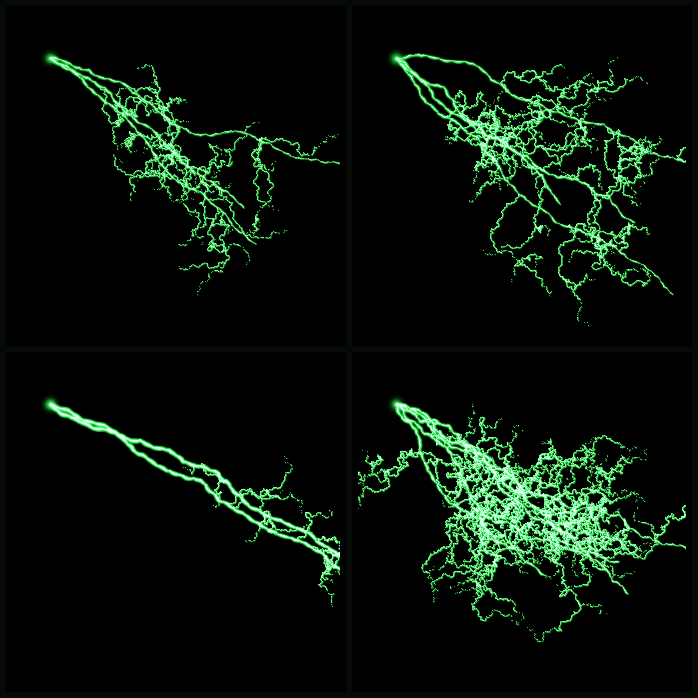
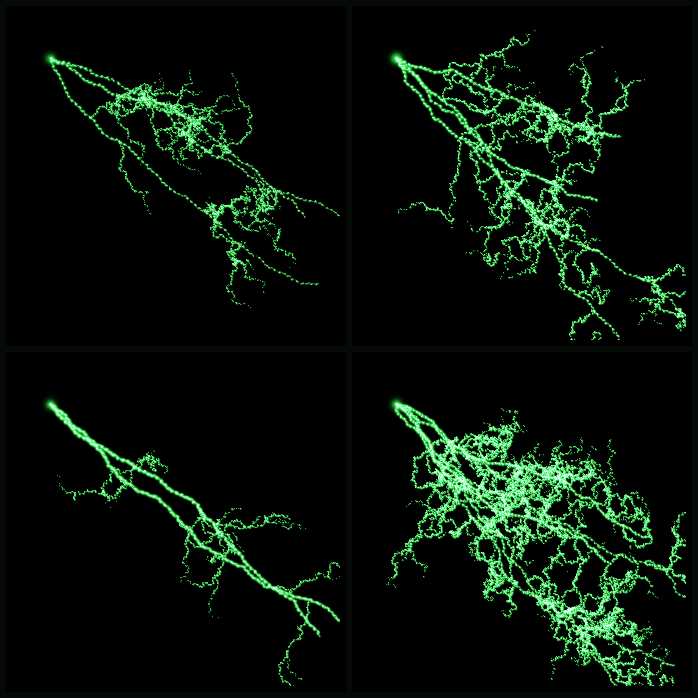
Green Growing: make it animate on (crackle/breakup/shimmer + fast tendril regen) instead of a static mask reveal

diff --git a/lightning-green-grow.html b/lightning-green-grow.html
@@ -45,6 +45,7 @@ const OPTS=[
 function add(x,y,r,g,b){ x|=0;y|=0; if(x<MARGIN||y<MARGIN||x>=GW-MARGIN||y>=GH-MARGIN)return; const i=(y*GW+x)*3; acc[i]+=r;acc[i+1]+=g;acc[i+2]+=b; }
 function glow(cx,cy,rad,c,inten){ if(inten<=0)return; const x0=Math.max(0,(cx-rad)|0),x1=Math.min(GW-1,(cx+rad)|0),y0=Math.max(0,(cy-rad)|0),y1=Math.min(GH-1,(cy+rad)|0);
   for(let y=y0;y<=y1;y++)for(let x=x0;x<=x1;x++){ const dx=x-cx,dy=y-cy,d=Math.sqrt(dx*dx+dy*dy); if(d>rad)continue; let f=1-d/rad; f*=f; add(x,y,c[0]*f*inten,c[1]*f*inten,c[2]*f*inten); } }
+function hashN(a,b){ let x=Math.sin(a*12.9898+b*78.233)*43758.5453; return x-Math.floor(x); }
 function displace(p0,p1,disp,detail){
   let pts=[p0,p1];
   for(let it=0;it<detail;it++){ const np=[];
@@ -112,16 +113,26 @@ function makeStrike(opt){
     // hot origin burst
     const bz=0.7+0.3*Math.sin(t*30);
     glow(OX,OY, 14, GLOW, (0.35+0.5*ball)*fade); glow(OX,OY,7,CORE,(0.6*ball)*fade*bz); glow(OX,OY,3,WHITE,(0.9*ball)*fade*bz);
-    // main fan branches, revealed up to the growth front, glowing, with flicker + hot tip
-    const cw=opt.thick>=2?1.9:1.3;
-    for(const q of mainsPts){ if(q[2]>front) continue;
-      const fl=0.7+0.3*Math.sin(q[2]*0.5+t*26), tip=1+1.4*Math.max(0,1-(front-q[2])/6);
-      const taper=1-0.45*(q[2]/maxD);                                    // thinner/dimmer toward the ends
-      glow(q[0],q[1], cw+2.2*taper, GLOW, 0.5*fl*fade*tip*taper); glow(q[0],q[1], cw, CORE, 0.8*fl*fade*tip*taper);
-      add(q[0],q[1],WHITE[0]*0.9*fl*fade*taper,WHITE[1]*0.9*fl*fade*taper,WHITE[2]*0.9*fl*fade*taper); }
-    // tendrils crackle (regenerate while grown)
-    if(front>=maxD && now-lastGen>=70 && lastGen>=0){ regenTend(); lastGen=now; }
-    for(const q of tend){ if(q[2]>front) continue; glow(q[0],q[1],1.9,GLOW,0.42*fade); add(q[0],q[1],CORE[0]*0.6*fade,CORE[1]*0.6*fade,CORE[2]*0.6*fade); }
+    // regenerate tendrils fast so branches CRACKLE as they draw in (not a static unmask)
+    if(now-lastGen>=55){ regenTend(); lastGen=now; }
+    const cw=opt.thick>=2?1.9:1.3, sseed=Math.floor(t*30);
+    // main branches: ragged flickering growth edge + breakup sizzle + shimmer -> pixels animate ON
+    let idx=0;
+    for(const q of mainsPts){ idx++;
+      if(q[2] > front - 2 + hashN(idx,sseed)*8) continue;               // ragged, flickering reveal edge
+      if(hashN(idx*3+7,sseed)<0.09) continue;                           // breakup sizzle (pixels blink on)
+      const jx=0.6*Math.sin(idx*0.7+t*38), jy=0.6*Math.cos(idx*0.9+t*35);   // shimmer (alive, not frozen)
+      const fl=0.6+0.4*Math.sin(idx*0.9+t*30), tip=1+2.2*Math.max(0,1-(front-q[2])/7);   // hot advancing tip
+      const taper=1-0.45*(q[2]/maxD), x=q[0]+jx, y=q[1]+jy;
+      glow(x,y, cw+2.2*taper, GLOW, 0.5*fl*fade*tip*taper); glow(x,y, cw, CORE, 0.8*fl*fade*tip*taper);
+      add(x,y,WHITE[0]*0.9*fl*fade*taper,WHITE[1]*0.9*fl*fade*taper,WHITE[2]*0.9*fl*fade*taper); }
+    // tendrils appear + crackle at the front
+    let ti=0;
+    for(const q of tend){ ti++;
+      if(q[2] > front - 2 + hashN(ti+91,sseed)*8) continue;
+      if(hashN(ti*5+3,sseed)<0.10) continue;
+      const jx=0.5*Math.sin(ti*0.8+t*42), jy=0.5*Math.cos(ti*1.1+t*39);
+      glow(q[0]+jx,q[1]+jy,1.9,GLOW,0.42*fade); add(q[0]+jx,q[1]+jy,CORE[0]*0.6*fade,CORE[1]*0.6*fade,CORE[2]*0.6*fade); }
     // green-weighted tonemap + alpha
     for(let i=0;i<N;i++){ let r=acc[i*3],g=acc[i*3+1],b=acc[i*3+2];
       r=1-Math.exp(-r*0.82); g=1-Math.exp(-g*1.6); b=1-Math.exp(-b*0.85);
